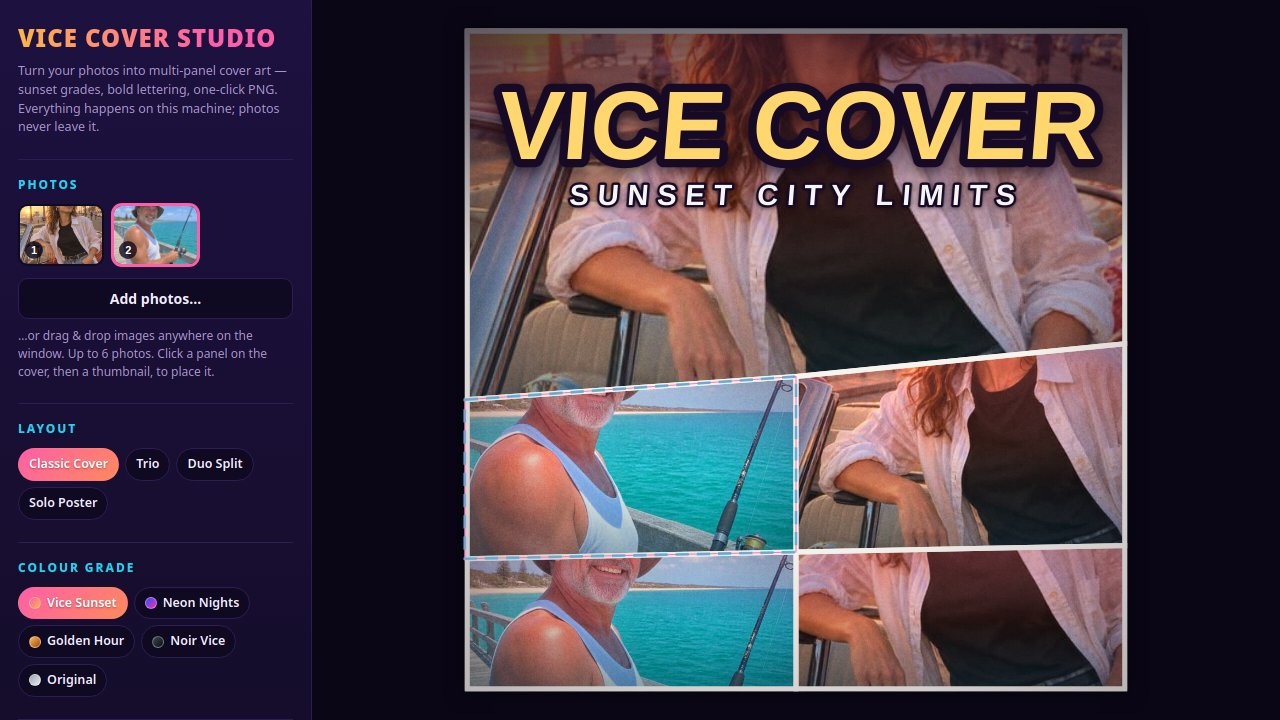
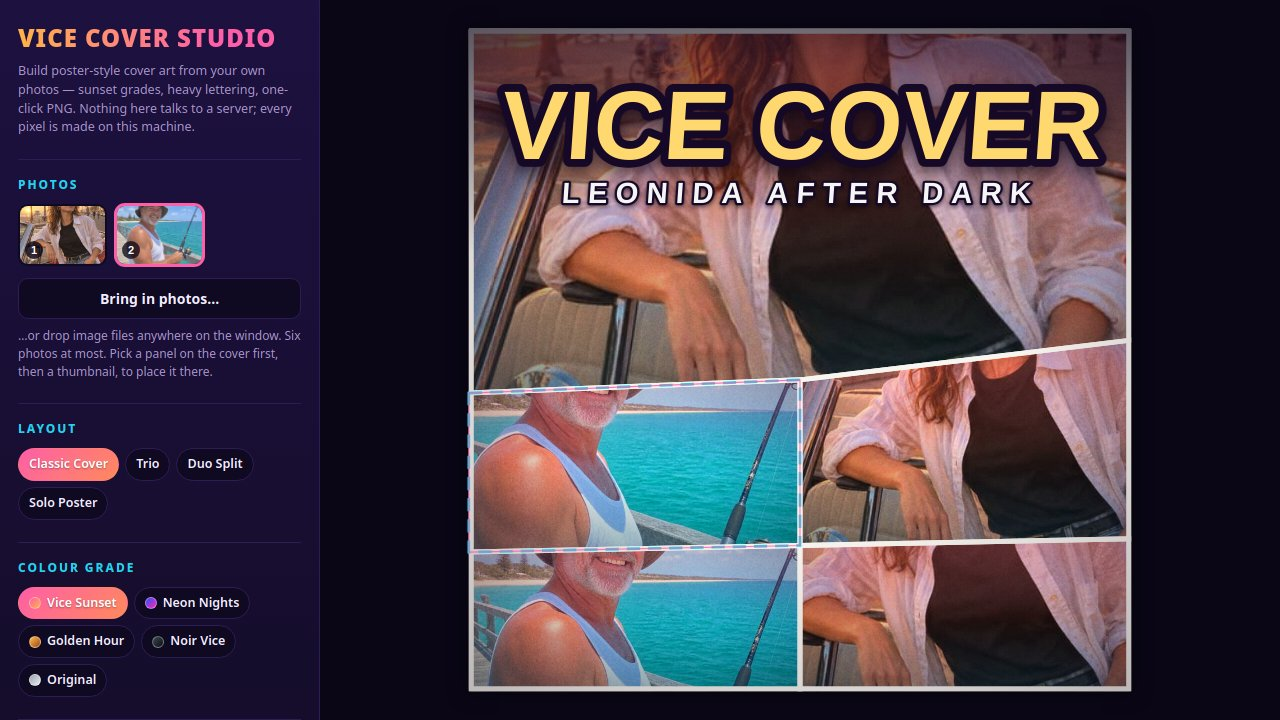
Deep revision: entry program two-pass, reworded README/scenes, real screenshots of revised app

diff --git a/main.ts b/main.ts
@@ -16,22 +16,36 @@ import { join } from 'node:path';
 import { fileURLToPath } from 'node:url';
 import { buildDossier } from './vendor/makefun-app.ts';
 
-const root = fileURLToPath(new URL('.', import.meta.url));
-const outDir = process.env.MAKEFUN_OUTPUT_DIR ?? '/output';
+const repoRoot = fileURLToPath(new URL('.', import.meta.url));
+const destDir = process.env.MAKEFUN_OUTPUT_DIR ?? '/output';
 
-mkdirSync(outDir, { recursive: true });
-cpSync(join(root, 'app'), join(outDir, 'app'), { recursive: true });
-mkdirSync(join(outDir, 'screenshots'), { recursive: true });
-if (existsSync(join(root, 'screenshots'))) {
-  cpSync(join(root, 'screenshots'), join(outDir, 'screenshots'), { recursive: true });
-}
-
-const dossier = buildDossier(outDir, {
+// The gate caps the gta6-cover-art-01 scorer enforces on the hand-in.
+const GATE_CAPS = {
   text_max_bytes: 163840,
   screenshots: { max: 4, max_bytes: 262144 },
   app_max_files: 993,
   app_max_bytes: 50331648,
   app_path_max_bytes: 1000,
-});
-writeFileSync(join(outDir, 'dossier.json'), dossier);
-console.log(`Vice Cover Studio handed in: ${join(outDir, 'dossier.json')}`);
+};
+
+function copyTree(from, to) {
+  cpSync(join(repoRoot, from), join(destDir, to), { recursive: true });
+}
+
+function copyShots() {
+  mkdirSync(join(destDir, 'screenshots'), { recursive: true });
+  if (existsSync(join(repoRoot, 'screenshots'))) {
+    copyTree('screenshots', 'screenshots');
+  }
+}
+
+function handIn() {
+  mkdirSync(destDir, { recursive: true });
+  copyTree('app', 'app');
+  copyShots();
+  const record = buildDossier(destDir, GATE_CAPS);
+  writeFileSync(join(destDir, 'dossier.json'), record);
+  console.log(`Vice Cover Studio handed in: ${join(destDir, 'dossier.json')}`);
+}
+
+handIn();

diff --git a/README.md b/README.md
@@ -4,18 +4,18 @@
 [![Rank](https://make.fun/badge/gta6-cover-art-01/semutadv/gta6-cover-art-entry/rank.svg)](https://make.fun/bounty/gta6-cover-art-01)
 [![Reward](https://make.fun/badge/gta6-cover-art-01/semutadv/gta6-cover-art-entry/reward.svg)](https://make.fun/bounty/gta6-cover-art-01)
 
-An offline browser app that turns your photos and a caption into cover art in the style of GTA 6's posters: the iconic multi-panel grid, Vice City sunset and neon colour grades, heavy condensed lettering, exported as a PNG in the common post sizes. Everything is local canvas work — your photos never leave the machine, and the app makes no network requests at all.
+A browser app that works fully offline and turns photos plus a caption into poster-style cover art in the spirit of GTA 6: the famous multi-panel grid, Vice City sunset and neon colour grades, heavy condensed lettering, and PNG exports in the post sizes people actually share. Every pixel is painted on local canvas — photos stay on the machine, and the app never makes a network request.
 
 Entry for the make.fun bounty **gta6-cover-art-01** ("Make GTA 6 Cover Art").
 
-## Features
+## What it does
 
-- **Four layouts, one click apart** — Classic Cover (hero panel with the slanted bottom edge, two mid panels, two bottom panels), Trio, Duo Split (one long diagonal), and Solo Poster, all separated by clean white keylines.
-- **Your photos, framed your way** — upload up to 6 photos by file picker or drag-and-drop, or start from the two built-in samples. Click a panel, click a thumbnail to place it; drag inside a panel to reposition, with zoom and fit/fill per panel. Empty panels are filled with a painted sunset-and-palms placeholder, so the cover always looks complete.
-- **Five colour grades** — Vice Sunset, Neon Nights, Golden Hour, Noir Vice, and Original, applied per panel with an optional per-panel override: canvas filters, gradient overlays, vignette, and fine film grain.
-- **Genre lettering** — an editable title and caption in heavy condensed capitals with a thick outline, drop shadow, slight italic skew, and an optional sunset gradient fill, at the top or bottom of the cover.
-- **Exports that match the preview** — one-click PNG at 1080×1080, 1080×1350, 1920×1080, and 1080×1920 (the layout reflows to the aspect), plus an Export-all button. The preview uses the same renderer as the export, so what you see is what you share.
-- **Fast from the first second** — the app opens with the samples already composed into a finished Classic cover, and a Surprise-me button shuffles photos, layout, and grade when you want a new direction. Keyboard: arrows nudge, +/− zoom, number keys select a panel.
+- **Four layouts a click apart** — Classic Cover (hero panel with the slanted lower edge, two middle panels, two bottom panels), Trio, Duo Split (a single long diagonal), and Solo Poster, all divided by clean pale keylines.
+- **Photos framed your way** — bring in up to 6 photos with the file picker or by dragging them onto the window, or start from the two built-in samples. Click a panel, then a thumbnail, to place a photo; drag inside a panel to move it, with zoom, fit/fill, and a mirror flip per panel. Panels left empty get a painted sunset-and-palms scene, so the cover always looks finished.
+- **Five colour grades** — Vice Sunset, Neon Nights, Golden Hour, Noir Vice, and Original, set for the whole cover with an optional override per panel: canvas filters, gradient washes, vignette, and fine film grain.
+- **Lettering in the genre's voice** — an editable title and caption in heavy condensed capitals with a thick outline, drop shadow, a slight italic lean, and an optional sunset gradient fill, placed at the top or bottom of the cover.
+- **Exports that match the preview** — one-click PNG at 1080×1080, 1080×1350, 1920×1080, and 1080×1920 (the layout reflows to the aspect), plus an Export-all button. The preview runs through the same renderer as the export, so what you see is what you share.
+- **A finished cover from the first second** — the app opens with the samples already composed into a Classic cover, and a Surprise-me button shuffles photos, layout, and grade when you want a fresh direction. Keyboard: arrows nudge, +/− zoom, F flips, number keys pick a panel.
 
 ## Run
 
@@ -31,8 +31,8 @@ No build step, no dependencies — plain static files and vanilla JavaScript ES 
 - `app/index.html` — the editor page (canvas + controls), no external references.
 - `app/style.css` — the dark neon editor styling.
 - `app/src/state.js` — the cover state and change notification.
-- `app/src/layouts.js` — the four panel layouts as polygon data, plus the painted placeholder art.
-- `app/src/grades.js` — the five colour grades (filter + overlay + vignette + grain recipes).
+- `app/src/layouts.js` — the four panel layouts as polygon data, plus the painted stand-in art.
+- `app/src/grades.js` — the five colour grades (filter + wash + vignette + grain recipes).
 - `app/src/render.js` — composes the cover at any size: panels, photos, grades, keylines, lettering.
 - `app/src/lettering.js` — the title/caption drawing.
 - `app/src/editor.js` — UI wiring: uploads, drag-and-drop, selection, drag-to-move, export, shortcuts.
